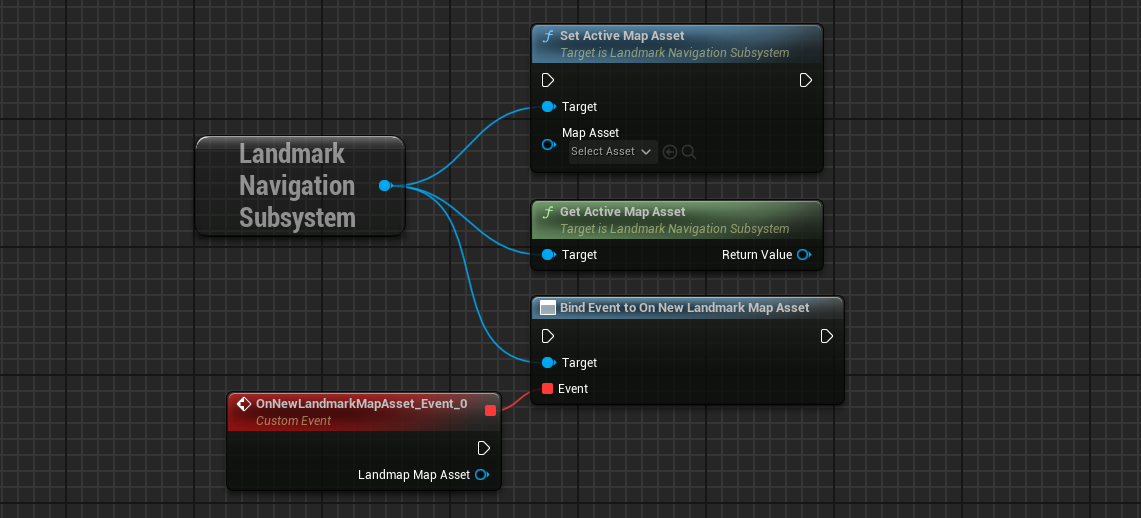
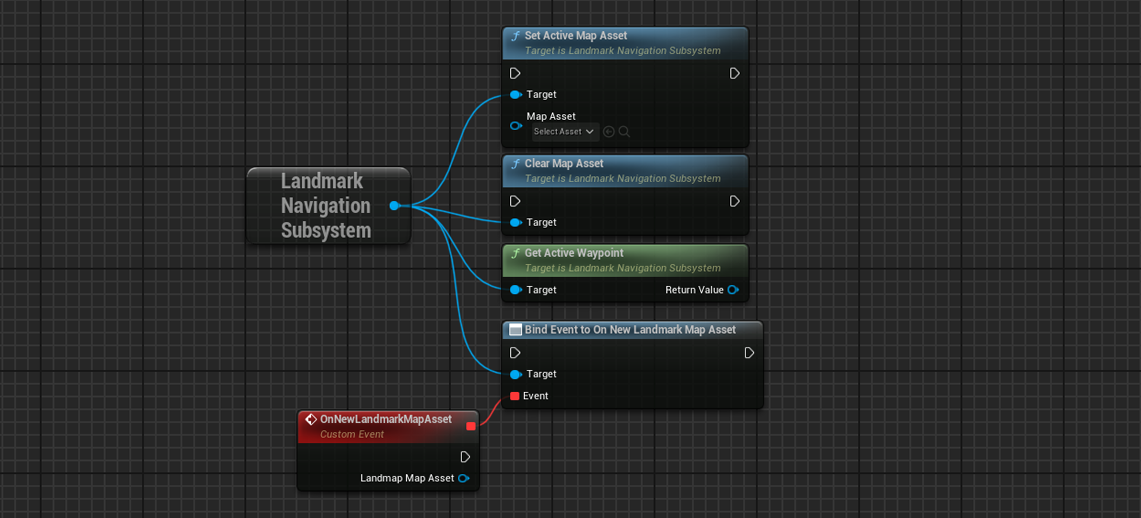
LandmarkNavigation update 2
* Updated docs to match LandmarkNavigation v2
* Added a list of function to FileSystemLibrary's docs

Changed region(s): [[0.1534, 0.0309, 0.7669, 0.9575], [0.0307, 0.3089, 0.0613, 0.3398]]

diff --git a/docs/FileSystemLibrary/Functions.md b/docs/FileSystemLibrary/Functions.md
@@ -1,0 +1,47 @@
+---
+title: Functions
+parent: File System Library
+layout: page
+nav_enabled: true
+nav_order: "5"
+---
+
+# Functions
+<br>
+
+
+| Function Name                    | Description |
+| ----------------------------     | ----------- | 
+| CopyFile                         |   Copies an existing file from one path to another (both paths should include the file name and extension).   |
+| MoveFile                         |   Moves a file from one path to another (both paths should include the file name and extension).   |
+| DeleteFile                       |   Deletes a file at the specified path.   |
+| RenameFile                       |   Renames an existing file to a new name (both the original path and the new file name should include extensions).   |
+| VerifyFile                       |   Checks if a given file (with extension) exists.   |
+| VerifyDirectory                  |   Checks if a directory exists.   |
+| VerifyAndCreateDirectory         |   Checks if a directory exists, and if it does not exist and CreateDirectory is true, creates the directory.   |
+| DeleteDirectory                  |   Deletes a specified directory, including all files and subfolders inside it.   |
+| CopyDirectory                    |   Copies all files and folders from the source path to the destination path, optionally overwriting existing files.   |
+| MoveDirectory                    |   Moves all files and folders from the source path to the destination path, optionally overwriting existing files.   |
+| OpenDirectory                    |   Opens the default file explorer at the specified directory path.   |
+| GetFileOrDirectoryProperties     |   Retrieves various properties (e.g., creation date, size, read-only status) of a file or folder.   |
+| GetFileOrDirectorySize           |   Obtains the size of the file or folder (in bytes).   |
+| GetFilesInDirectory              |   Returns a list of files from a directory that match the specified extension filter.   |
+| GetFilesRecursivelyInDirectory   |   Returns the name of all files present in the specified directory and all sub-directories.   |
+| GetFoldersInDirectory            |   Lists the subfolders found in the specified directory.   |
+| LoadTextFileToStringArray        |   Loads a text file’s content into an array of strings, where each line represents a separate element.   |
+| InsertStringArrayToFile          |   Inserts lines of text into an existing file at a specified zero-based index.   |
+| LoadTextFileToString             |   Reads the entire content of a file into a single string.   |
+| SaveStringArrayToFile            |   Saves an array of strings to a file, with each array element being written as a separate line.   |
+| AppendStringArrayToFile          |   Appends an array of strings to a file’s existing content.   |
+| GetFileExtension                 |   Retrieves the extension (e.g., “.txt”) from the given file path.   |
+| GetFilePath                      |   Extracts only the directory path from a given file path (removes file name and extension).   |
+| GetFileName                      |   Extracts the file name from a given path, optionally including the file extension.   |
+| OpenFileSelectDialog             |   Opens a dialog to select multiple folders; returns an array of the chosen folder paths.   |
+| OpenFileMultiSelectDialog        |   Opens a dialog to select a single folder; returns the selected folder path.   |
+| OpenFolderSelectDialog           |   Opens a dialog to select multiple files; returns an array of the chosen file paths.   |
+| OpenFolderMultiSelect            |   Opens a dialog to select a single file; returns the chosen file path.   |
+| OpenSaveFileDialog               |   Opens a “Save File” dialog; returns the path (including file name and extension) where the file will be saved.   |
+| BindOnFileDialogResult           |   Allows you to bind a delegate to handle file dialog results on platforms that open file dialogs asynchronously.|
+| CreateProcess                    |   Spawns a new process with the specified settings and returns its process ID.   |
+| IsProcessRunning                 |   Checks if a process with a given ID is currently running.   |
+| GetProcessName                   |   Retrieves the name of a process from its ID.   |

diff --git a/docs/LandmarkNavigation/Entities/LandmarkNavigationSubsystem.md b/docs/LandmarkNavigation/Entities/LandmarkNavigationSubsystem.md
@@ -30,6 +30,7 @@ Some of its settings are exposed in the plugin's [settings](../Settings){:target
 | Name                | Description                                                                                                                                                                  |
 | ------------------- | ---------------------------------------------------------------------------------------------------------------------------------------------------------------------------- |
 | SetActiveWaypoint   | Set a [ULandmarkComponent](LandmarkComponent){:target="blank"} as active waypoint, meaning it should be displayed on the waypoint widget. There can only be one active map asset at any time. |
+| ClearActiveWaypoint | Clears the active waypoint if any.                                                                                                                                           |
 | GetActiveWaypoint   | Returns the currently Active Waypoint (LandmarkComponent) or nullptr if none.                                                                                                |
 | OnNewActiveWaypoint | Triggers whenever a new ULandmarkComponent is set as waypoint.                                                                                                               |
 
@@ -40,6 +41,7 @@ Some of its settings are exposed in the plugin's [settings](../Settings){:target
 | Name                  | Description                                                                                                                                               |
 | --------------------- | --------------------------------------------------------------------------------------------------------------------------------------------------------- |
 | SetActiveMapAsset     | Set a [ULandmarkMapAsset](LandmarkMapAsset){:target="blank"} as active, meaning it should be displayed on the minimap. There can only be one active map asset at any time. |
+| ClearActiveMapAsset   | Clears the active map asset if any.                                                                                               |
 | GetActiveMapAsset     | Returns the currently Active Map Asset or nullptr if none.                                                                                                |
 | OnNewLandmarkMapAsset | Triggers whenever a new ULandmarkMapAsset is set as active.                                                                                               |
 

diff --git a/docs/LandmarkNavigation/Changelog.md b/docs/LandmarkNavigation/Changelog.md
@@ -1,0 +1,21 @@
+---
+title: Changelog
+parent: Landmark Navigation
+layout: page
+nav_enabled: true
+nav_order: "9"
+---
+# Changelog
+<br>
+
+<br>
+
+## Version 1 - 06/06/2025
+
+* Initial Release
+
+## Version 2 - 06/06/2025
+
+* Added `ClearActiveWaypoint()` function to clear the active waypoint.
+* Added `ClearMapAsset()` function to clear the current map asset.
+* Fixed issue where unregistering the active waypoint would not properly dispose of the on screen waypoint.

diff --git a/docs/FileSystemLibrary/index.md b/docs/FileSystemLibrary/index.md
@@ -36,9 +36,6 @@ Supported Version
 Fab Marketplace
 :  [https://www.fab.com/listings/ec8e92ff-074b-4246-8fd1-e7f2c8510d76](https://www.fab.com/listings/ec8e92ff-074b-4246-8fd1-e7f2c8510d76){:target="_blank"}
 
-Github
-: [https://github.com/Lambda-W/FileSystemLibrary](https://github.com/Lambda-W/FileSystemLibrary){:target="_blank"}
-
 Discord
 : [https://discord.com/invite/bxgtNY8](https://discord.com/invite/bxgtNY8){:target="_blank"}
 

diff --git a/docs/LandmarkNavigation/Entities/Minimap.md b/docs/LandmarkNavigation/Entities/Minimap.md
@@ -19,6 +19,10 @@ Some additional minimap settings are landmark specific, see [LandmarkAsset](Land
 * Use the provided slots to customise the compass' visual appearance.
 * Tweak its settings to customise the minimap's behaviour.
 
+<br>
+
+See  [LandmarkNavigationSubsystem](LandmarkNavigationSubsystem) for all related functions.
+
 See Content/Demo/Widget/WBP_LN_Demo_Hud, for an use example.
 
 

diff --git a/docs/LandmarkNavigation/Entities/Waypoint.md b/docs/LandmarkNavigation/Entities/Waypoint.md
@@ -16,6 +16,10 @@ The Waypoint widget (`WBP_LN_Waypoint`) is a UserWidget that displays landmarks 
 * Add a WBP_LN_Waypoint to your widget.
 * Tweak its settings to customise the waypoint's behaviour.
 
+<br>
+
+See  [LandmarkNavigationSubsystem](LandmarkNavigationSubsystem) for all related functions.
+
 See Content/Demo/Widget/WBP_LN_Demo_Hud, for an use example.
 
 
